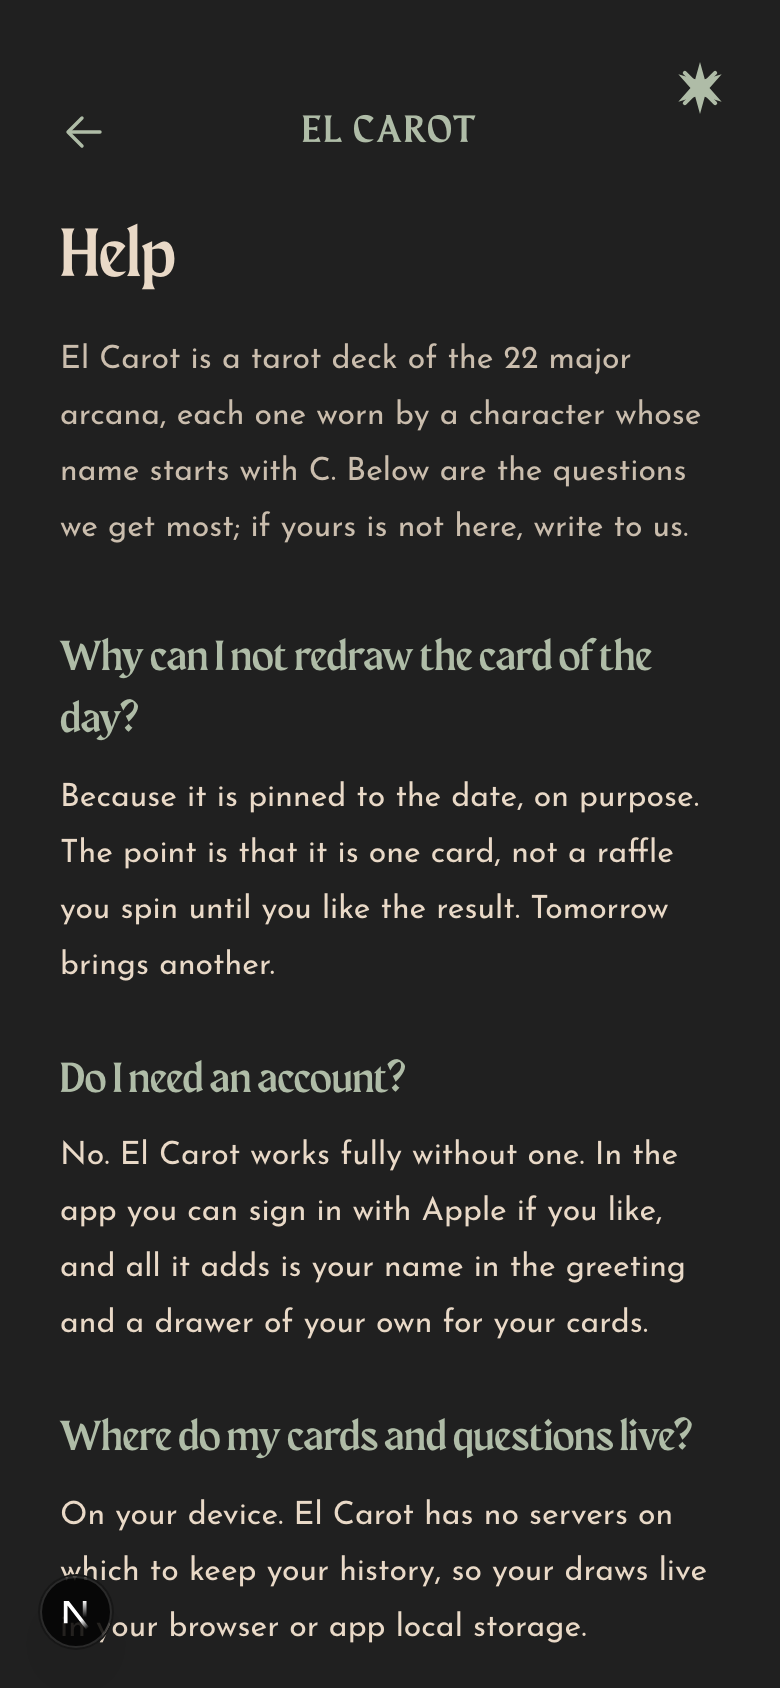
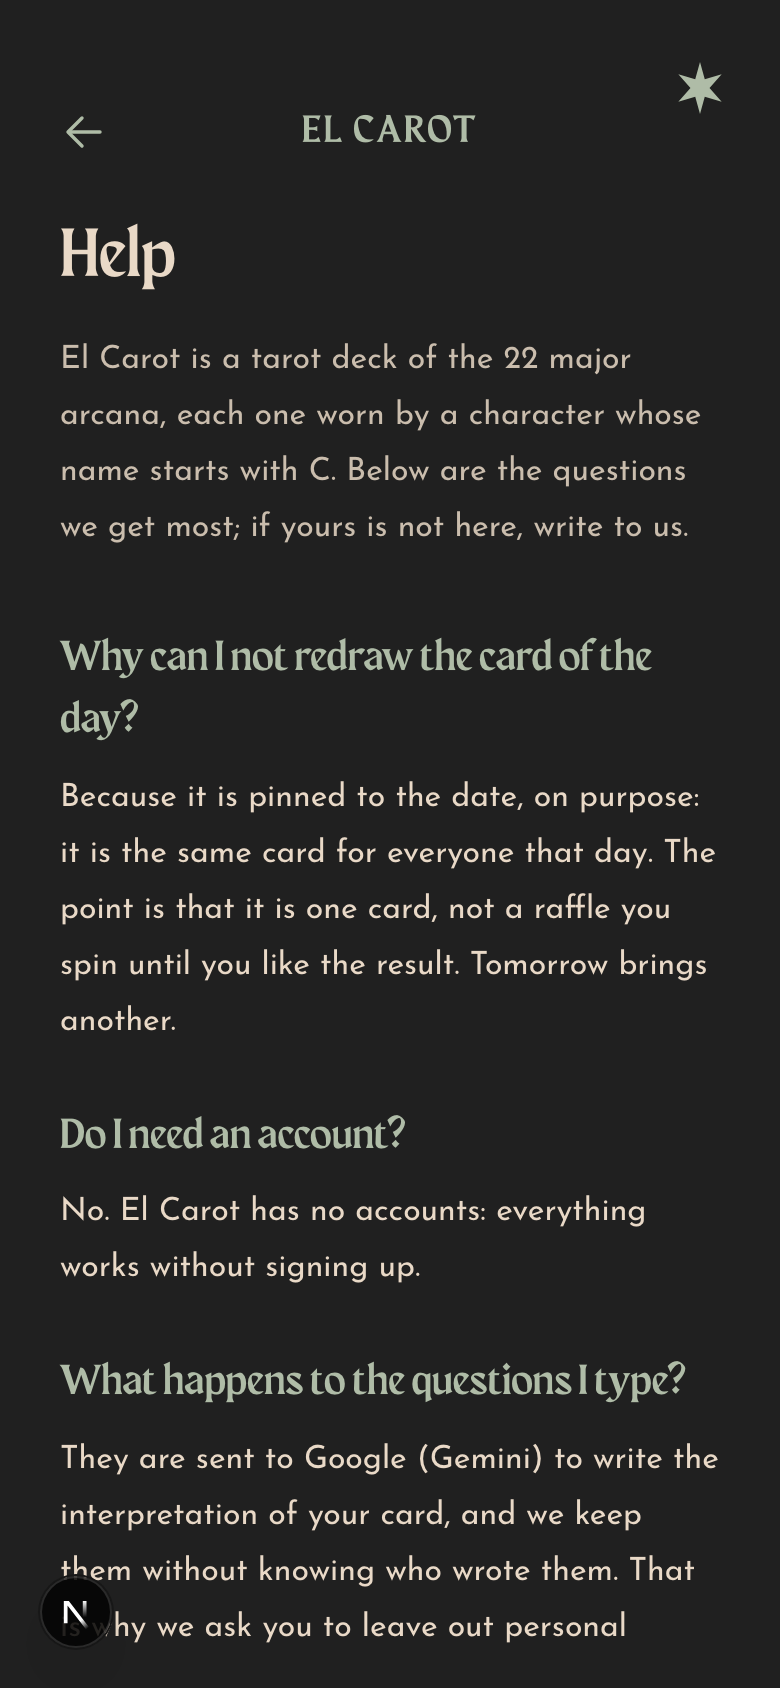
Make the support page web-only and assign untracked files to the test cache
- Support FAQ no longer mentions the app; data answers now match the
  privacy policy (questions go to Google Gemini and are kept anonymously,
  no accounts, no on-device history).
- editor.json: package/tsconfig/prisma/.mjs files count toward the test
  partition; docs, assets and CI config are ignored by the test cache.

Changed region(s): [[0.0615, 0.4929, 0.9231, 0.9858], [0.8923, 0.8626, 0.9231, 0.8934]]

diff --git a/components/SupportScreen.tsx b/components/SupportScreen.tsx
@@ -9,12 +9,9 @@ import { BackHeader } from '@/components/BackHeader';
 import { DesktopNav } from '@/components/DesktopNav';
 
 /**
- * Support — the page the App Store's "Support URL" points at.
- *
- * Written to actually answer things, not merely to exist: App Review opens this
- * link, and a page that only says "email us" reads as a placeholder. The
- * questions below are the ones the app genuinely provokes — why the daily card
- * can't be redrawn, whether an account is needed, where the data lives.
+ * Support — help for the website. Written to actually answer things, not
+ * merely to exist: why the daily card can't be redrawn, whether an account is
+ * needed, where questions go. Data answers must stay in step with PrivacyScreen.
  *
  * Copy is local to this file for the same reason as PrivacyScreen's.
  */
@@ -34,23 +31,19 @@ const COPY: Record<
     faqs: [
       {
         q: '¿Por qué no puedo volver a tirar la carta del día?',
-        a: 'Porque está atada a la fecha, a propósito. La idea es que sea una carta y no un sorteo hasta que salga la que te guste. Mañana hay otra.',
+        a: 'Porque está atada a la fecha, a propósito: es la misma carta para todos durante el día. La idea es que sea una carta y no un sorteo hasta que salga la que te guste. Mañana hay otra.',
       },
       {
         q: '¿Necesito una cuenta?',
-        a: 'No. El Carot funciona completo sin cuenta. En la app podés iniciar sesión con Apple si querés, y lo único que agrega es tu nombre en el saludo y un cajón propio para tus cartas.',
+        a: 'No. En El Carot no hay cuentas: todo funciona sin registrarte.',
       },
       {
-        q: '¿Dónde quedan mis cartas y mis preguntas?',
-        a: 'En tu dispositivo. El Carot no tiene servidores donde guardar tu historial, así que tus tiradas viven en el almacenamiento local del navegador o de la app.',
+        q: '¿Qué pasa con las preguntas que escribo?',
+        a: 'Se envían a Google (Gemini) para escribir la interpretación de tu carta, y las guardamos sin saber quién las escribió. Por eso te pedimos que no incluyas datos personales. El detalle está en la política de privacidad.',
       },
       {
         q: '¿Cómo borro mis datos?',
-        a: 'En la web, borrando los datos del sitio desde tu navegador. En la app, desinstalándola. En los dos casos se va todo, porque no hay copia en ningún otro lado.',
-      },
-      {
-        q: 'Perdí mi historial al cambiar de teléfono o de navegador',
-        a: 'Es esperable: como nada se guarda en un servidor, el historial no viaja entre dispositivos. Es el costo de que tus preguntas no salgan de tu teléfono.',
+        a: 'No guardamos nada que te identifique, así que no hay una cuenta que borrar. Tu preferencia de idioma se borra borrando los datos del sitio en tu navegador. Si querés que borremos un comentario tuyo, escribinos.',
       },
       {
         q: 'Encontré algo que no funciona',
@@ -58,7 +51,7 @@ const COPY: Record<
       },
     ],
     contactHeading: 'Escribinos',
-    contactBody: 'Contestamos a todo. Si es un problema con la app, contanos qué dispositivo usás.',
+    contactBody: 'Contestamos a todo. Si es un problema con el sitio, contanos qué navegador y qué dispositivo usás.',
     igLabel: 'Seguinos en Instagram',
     privacyLabel: 'Política de privacidad',
   },
@@ -69,23 +62,19 @@ const COPY: Record<
     faqs: [
       {
         q: 'Why can I not redraw the card of the day?',
-        a: 'Because it is pinned to the date, on purpose. The point is that it is one card, not a raffle you spin until you like the result. Tomorrow brings another.',
+        a: 'Because it is pinned to the date, on purpose: it is the same card for everyone that day. The point is that it is one card, not a raffle you spin until you like the result. Tomorrow brings another.',
       },
       {
         q: 'Do I need an account?',
-        a: 'No. El Carot works fully without one. In the app you can sign in with Apple if you like, and all it adds is your name in the greeting and a drawer of your own for your cards.',
+        a: 'No. El Carot has no accounts: everything works without signing up.',
       },
       {
-        q: 'Where do my cards and questions live?',
-        a: 'On your device. El Carot has no servers on which to keep your history, so your draws live in your browser or app local storage.',
+        q: 'What happens to the questions I type?',
+        a: 'They are sent to Google (Gemini) to write the interpretation of your card, and we keep them without knowing who wrote them. That is why we ask you to leave out personal details. The privacy policy has the full picture.',
       },
       {
         q: 'How do I delete my data?',
-        a: 'On the web, clear the site data from your browser. In the app, uninstall it. Either way everything goes, because there is no copy anywhere else.',
-      },
-      {
-        q: 'I lost my history when I changed phone or browser',
-        a: 'That is expected: since nothing is kept on a server, history does not travel between devices. It is the cost of your questions never leaving your phone.',
+        a: 'We keep nothing that identifies you, so there is no account to delete. Your language preference goes when you clear the site data in your browser. If you want a comment of yours removed, write to us.',
       },
       {
         q: 'I found something broken',
@@ -93,7 +82,7 @@ const COPY: Record<
       },
     ],
     contactHeading: 'Write to us',
-    contactBody: 'We answer everything. If it is a problem with the app, tell us which device you are on.',
+    contactBody: 'We answer everything. If it is a problem with the site, tell us which browser and device you are on.',
     igLabel: 'Follow on Instagram',
     privacyLabel: 'Privacy policy',
   },
